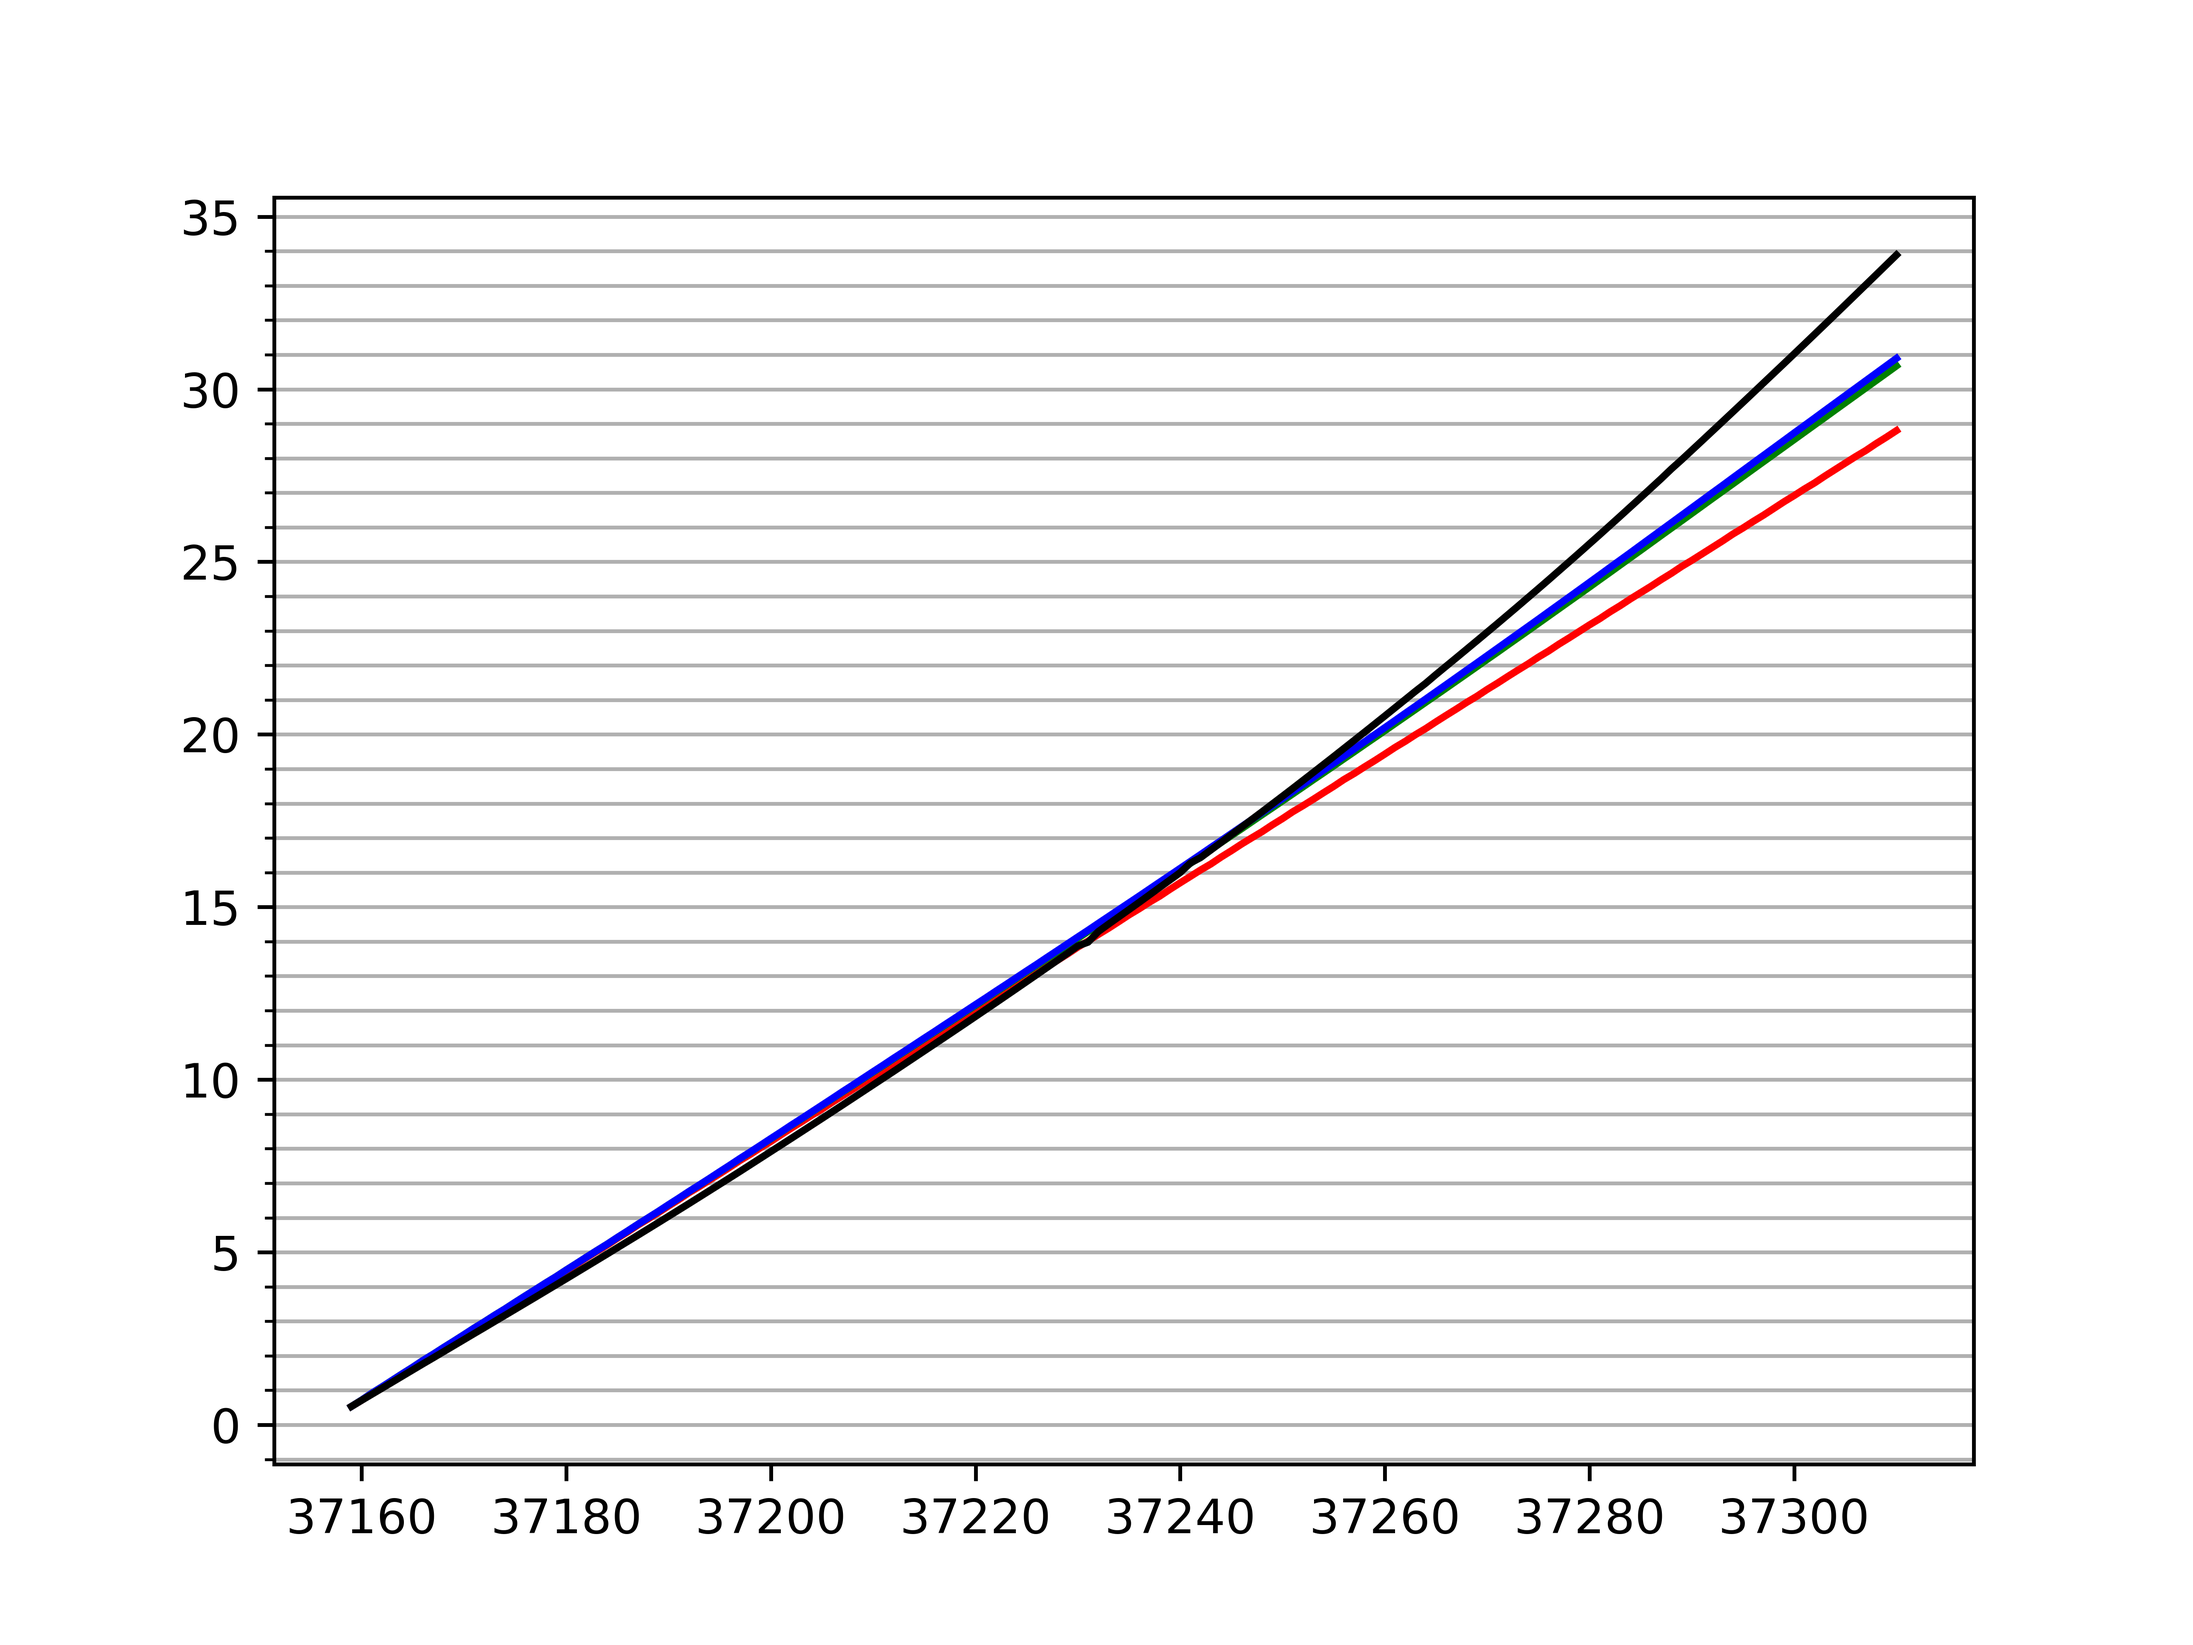
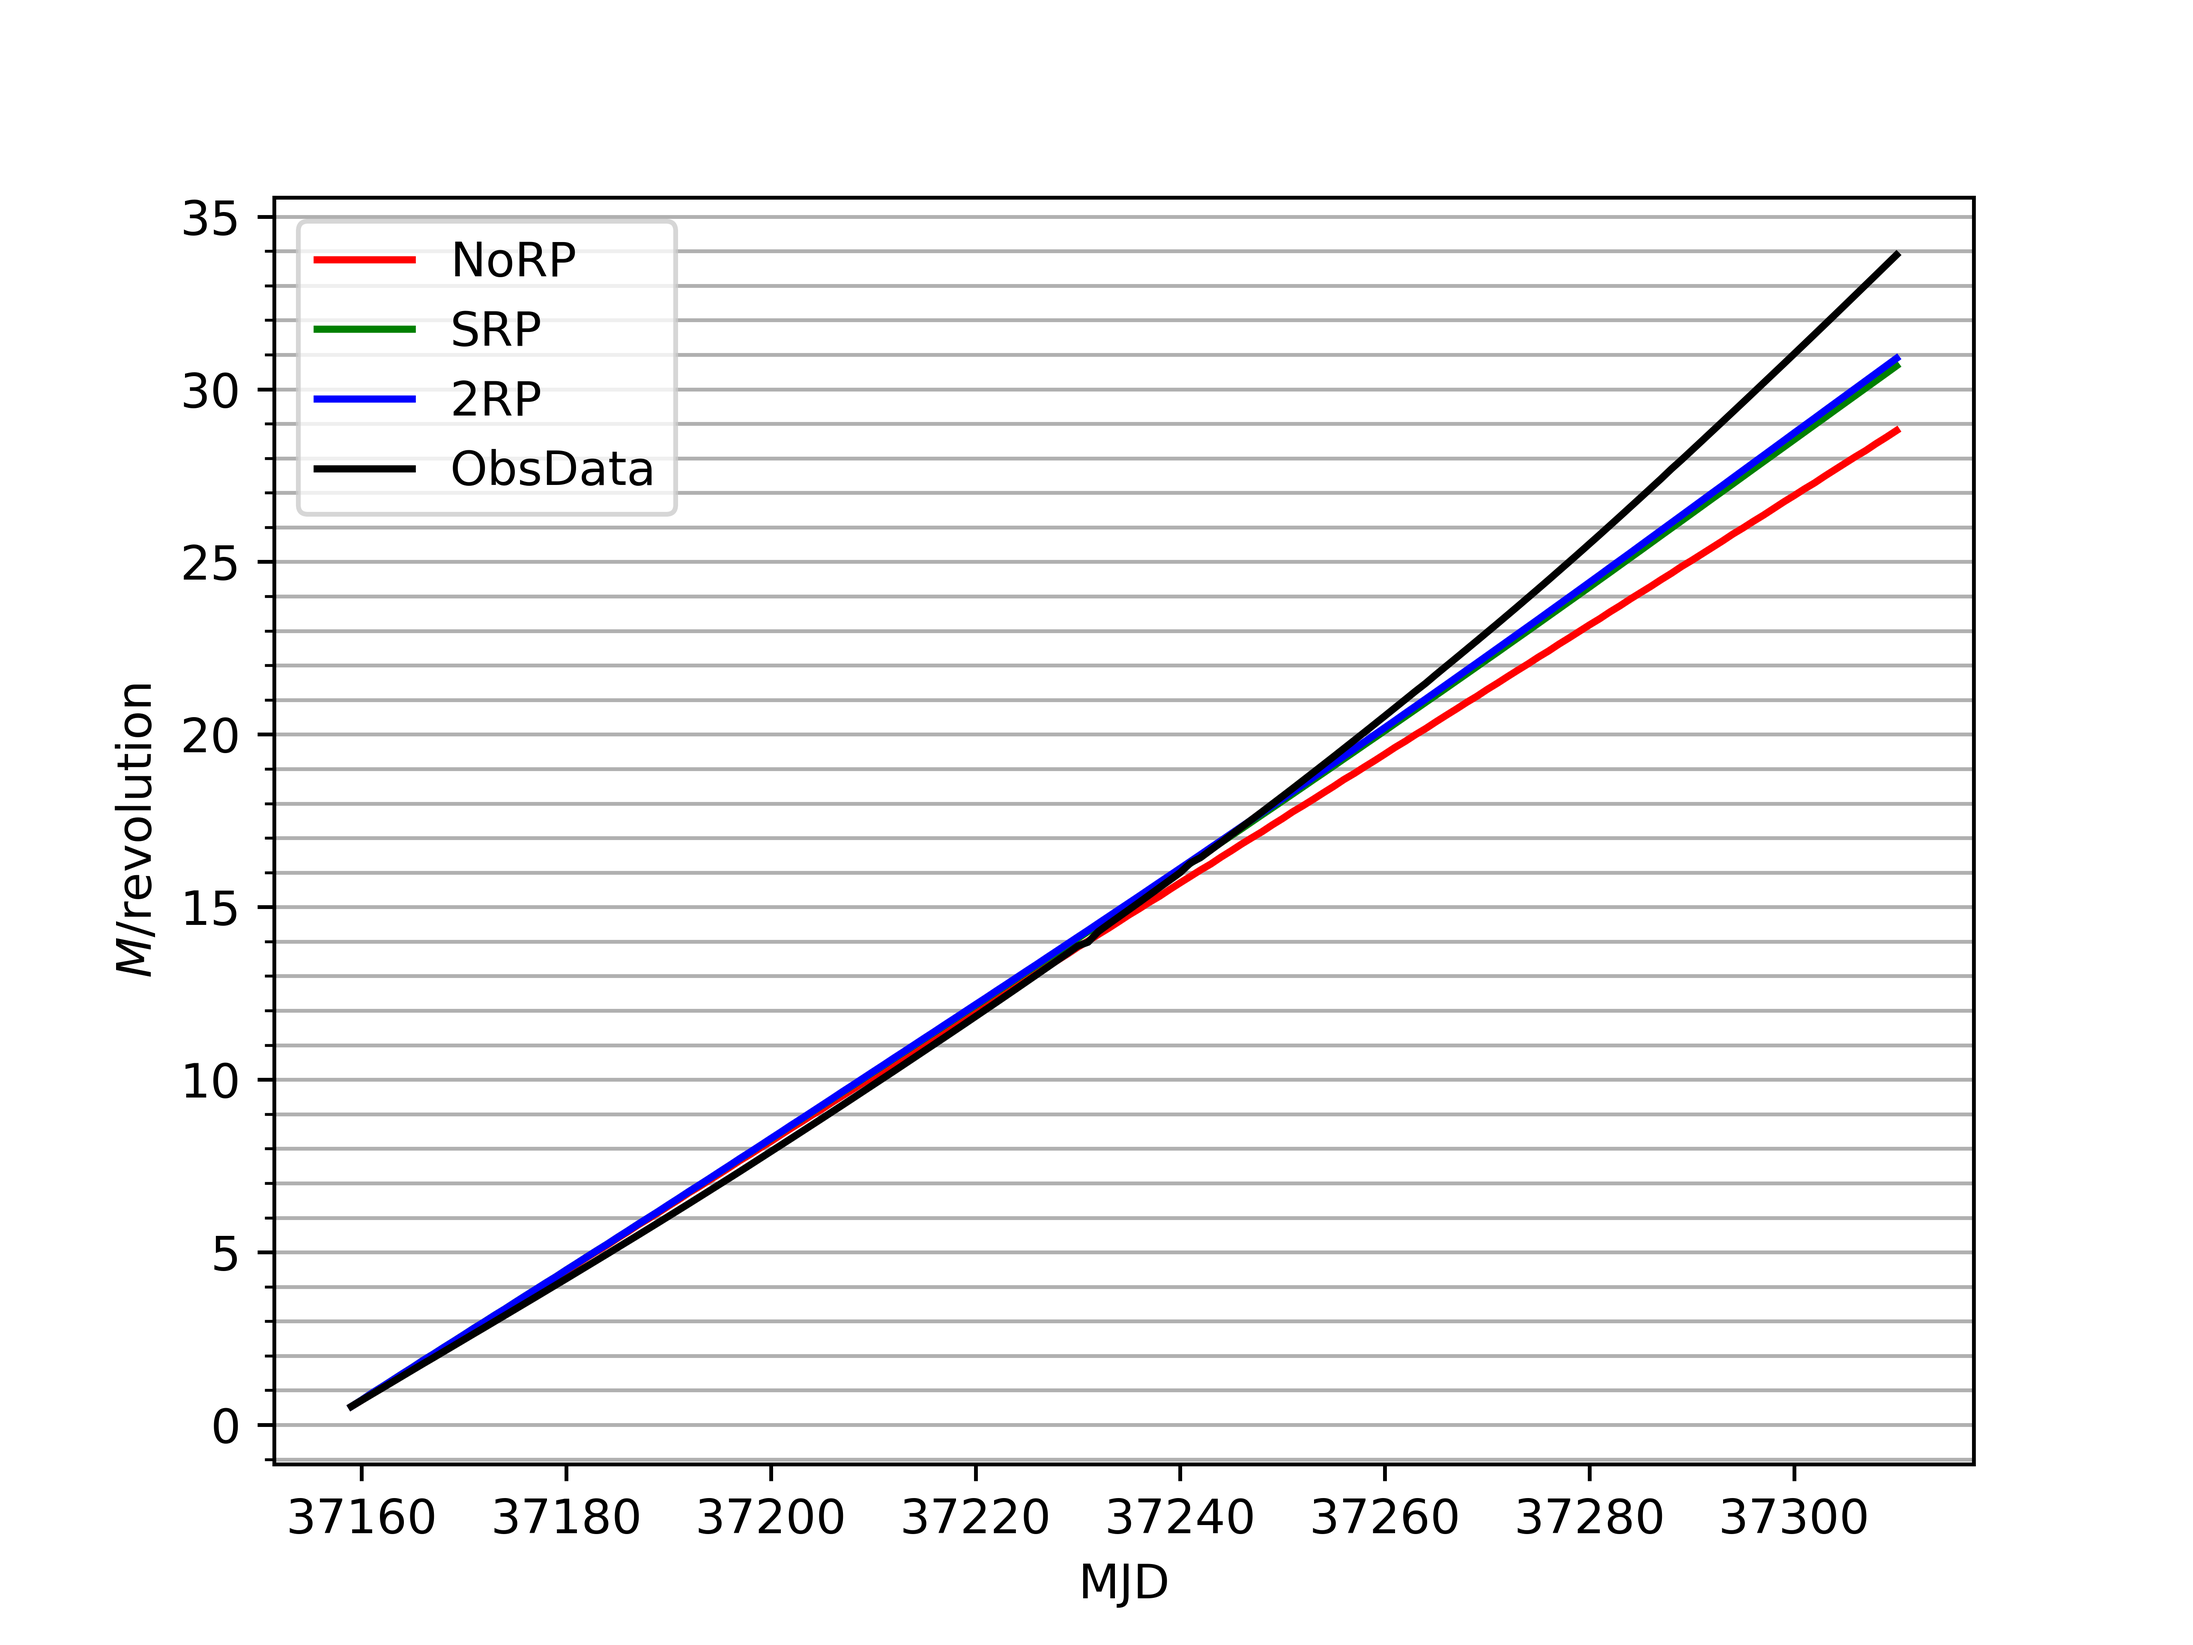
fit bug in plot_M

Changed region(s): [[0.125, 0.125, 0.3125, 0.3125], [0.5, 0.9375, 0.5312, 0.9688], [0.0312, 0.5625, 0.0625, 0.5938]]

diff --git a/plot/plot_M.py b/plot/plot_M.py
@@ -627,5 +627,8 @@ from matplotlib.ticker import MultipleLocator
 ax.yaxis.set_minor_locator(MultipleLocator(1))
 ax.yaxis.grid(True,which='major')
 ax.yaxis.grid(True,which='minor')
+plt.legend(('NoRP','SRP','2RP','ObsData'))
+plt.xlabel('MJD')
+plt.ylabel('$M$/revolution')
 #plt.show()
 plt.savefig('M.png',dpi=800)
